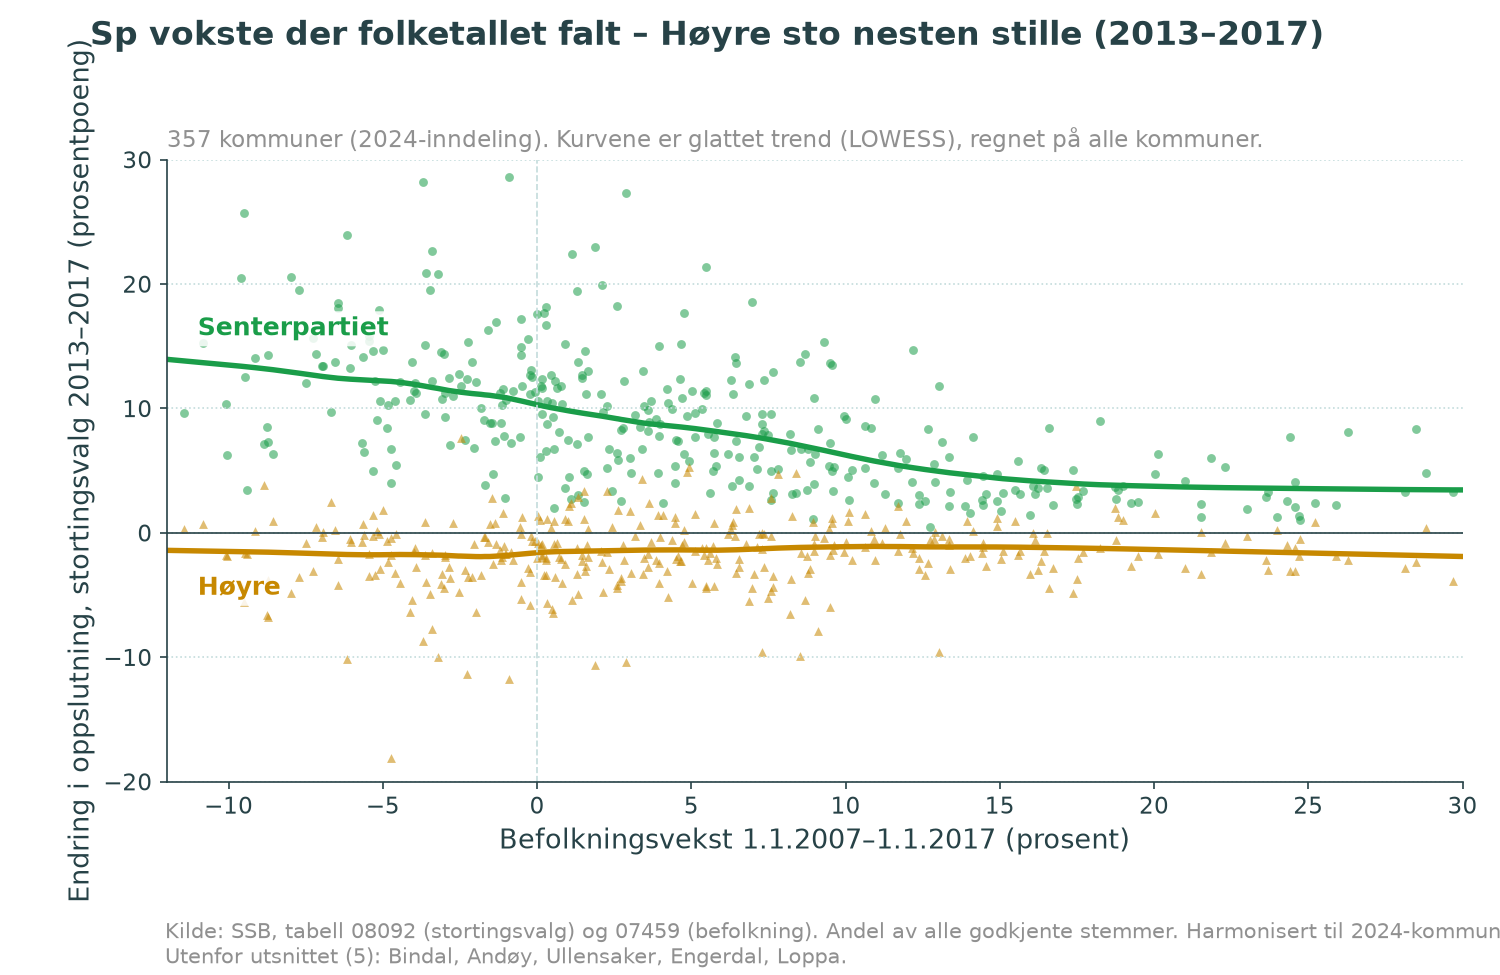
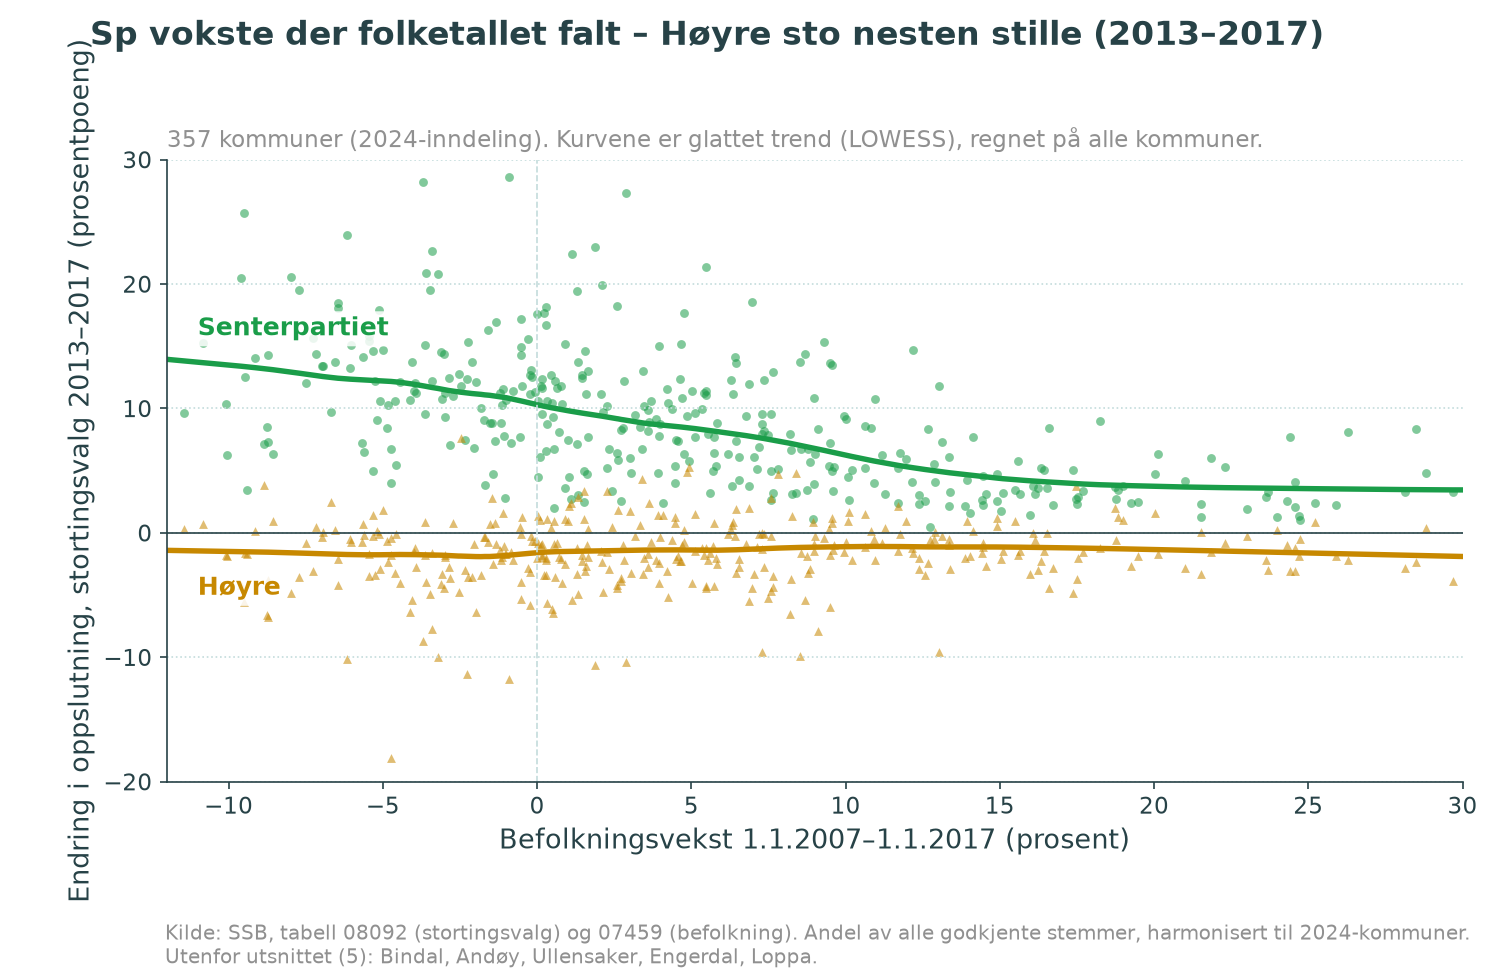
Figurer: fotnote uten avkapping
Claude-Session: https://claude.ai/code/session_01Gpixwi4b6B6pqozujPHFCG

Changed region(s): [[0.1227, 0.9231, 1.0, 1.0]]

diff --git a/analyse/figur_parti_vs_befolkning.py b/analyse/figur_parti_vs_befolkning.py
@@ -70,10 +70,10 @@ fig.suptitle(TITTEL.get((annet, PERIODE), f"Endring for Sp og {navn2} etter befo
              x=0.06, ha="left", fontsize=16, fontweight="bold", color=TEKST, family=["Roboto Condensed", "DejaVu Sans"])
 ax.set_title("357 kommuner (2024-inndeling). Kurvene er glattet trend (LOWESS), regnet på alle kommuner.",
              loc="left", fontsize=11, color=GRÅ)
-fig.text(0.11, 0.012, "Kilde: SSB, tabell 08092 (stortingsvalg) og 07459 (befolkning). Andel av alle godkjente stemmer. "
-         "Harmonisert til 2024-kommuner.\n"
-         + textwrap.fill(f"Utenfor utsnittet ({len(utenfor)}): " + ", ".join(utenfor["navn"].str.split(" - ").str[0]) + ".", 125),
-         fontsize=10, color=GRÅ)
+fig.text(0.11, 0.012, "Kilde: SSB, tabell 08092 (stortingsvalg) og 07459 (befolkning). Andel av alle godkjente stemmer, "
+         "harmonisert til 2024-kommuner.\n"
+         + textwrap.fill(f"Utenfor utsnittet ({len(utenfor)}): " + ", ".join(utenfor["navn"].str.split(" - ").str[0]) + ".", 115),
+         fontsize=9.5, color=GRÅ)
 fig.tight_layout(rect=(0.03, 0.10, 1, 0.95))
 ut = ROT / "figurer" / f"{annet}_sp_{T0}_{T1}_befolkning.png"
 fig.savefig(ut, facecolor="white")
